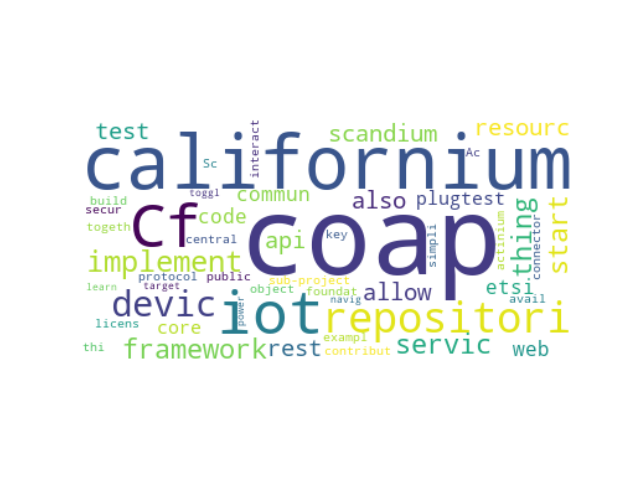
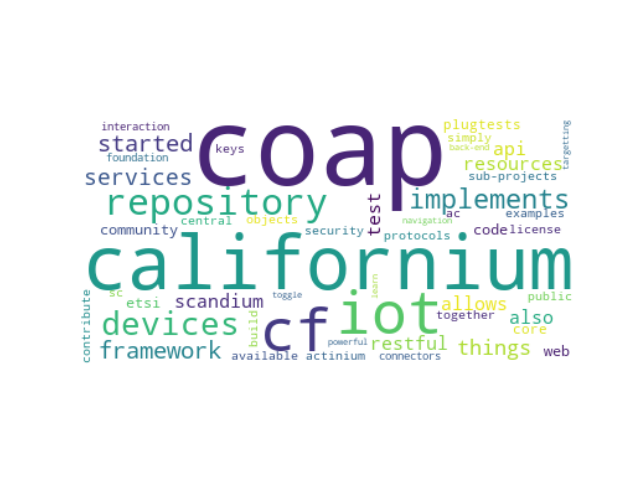
fix bug no unstemmed word on first create

Changed region(s): [[0.125, 0.25, 0.9062, 0.75]]

diff --git a/nlp/NlpProcessing.py b/nlp/NlpProcessing.py
@@ -65,13 +65,14 @@ def removeStopwords(projectName, stopwords):
     keywords = []
     stemmedKeywords = []
     programmingLanguageKeywords = []
+    programmingLanguages = getProgrammingLanguageList()
+
     for line in dataLines:
         words = word_tokenize(line)
         for index, word in enumerate(words):
             # words[index] = SnowballStemmer('english').stem(word)
             words[index] = PorterStemmer().stem(word)
             # check for stop words
-            programmingLanguages = getProgrammingLanguageList()
             if words[index] not in stopwords and word.lower() not in stopwords and words[index] != '' and '//' not in words[index] and not isMatchSpecialString(words[index]):
                 if words[index] in programmingLanguages:
                     programmingLanguageKeywords.append(words[index])

diff --git a/model/Site.py b/model/Site.py
@@ -24,6 +24,7 @@ class StemmedWord(object):
         self.UnStemmed = defaultdict(int)
         self.Text = Text
         self._count = 0
+        self.addUnStemmed(UnStemmedWord)
     
     def count(self):
         if self._count == 0:
